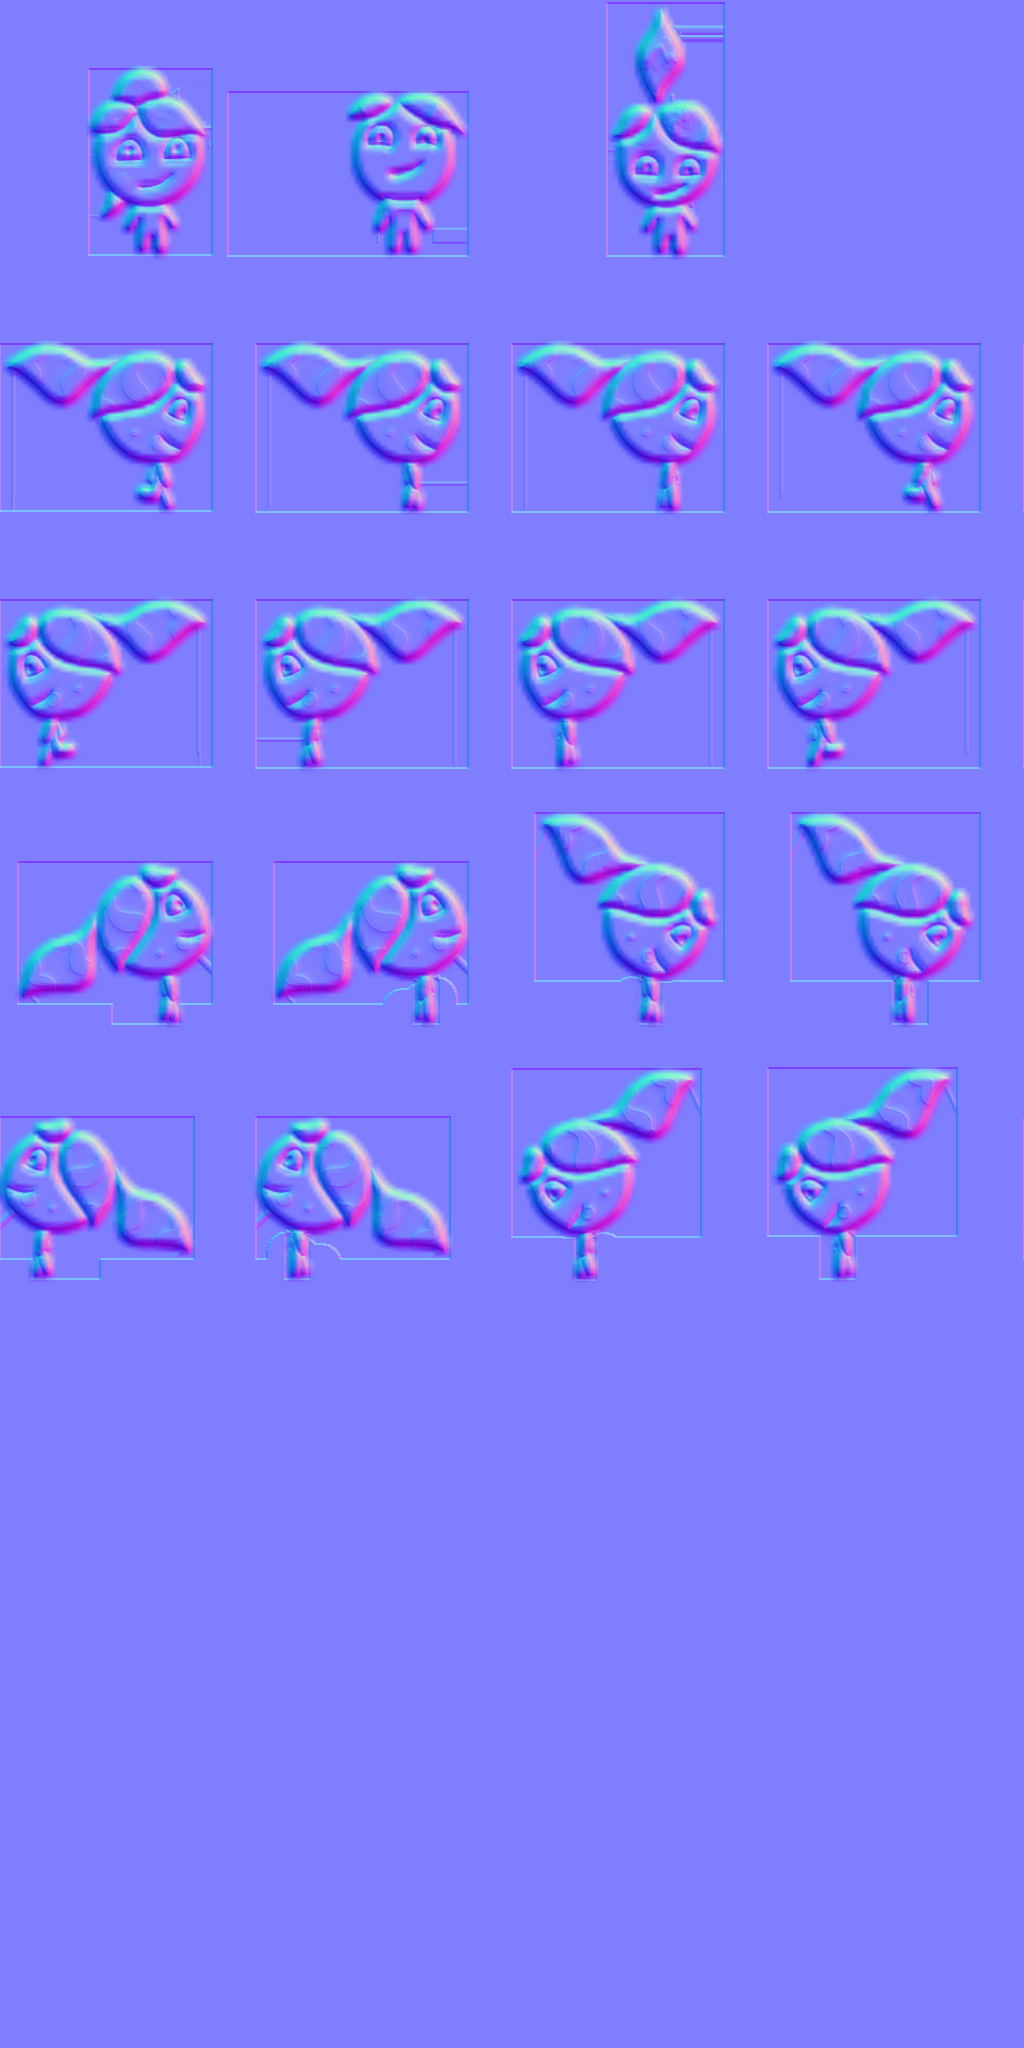
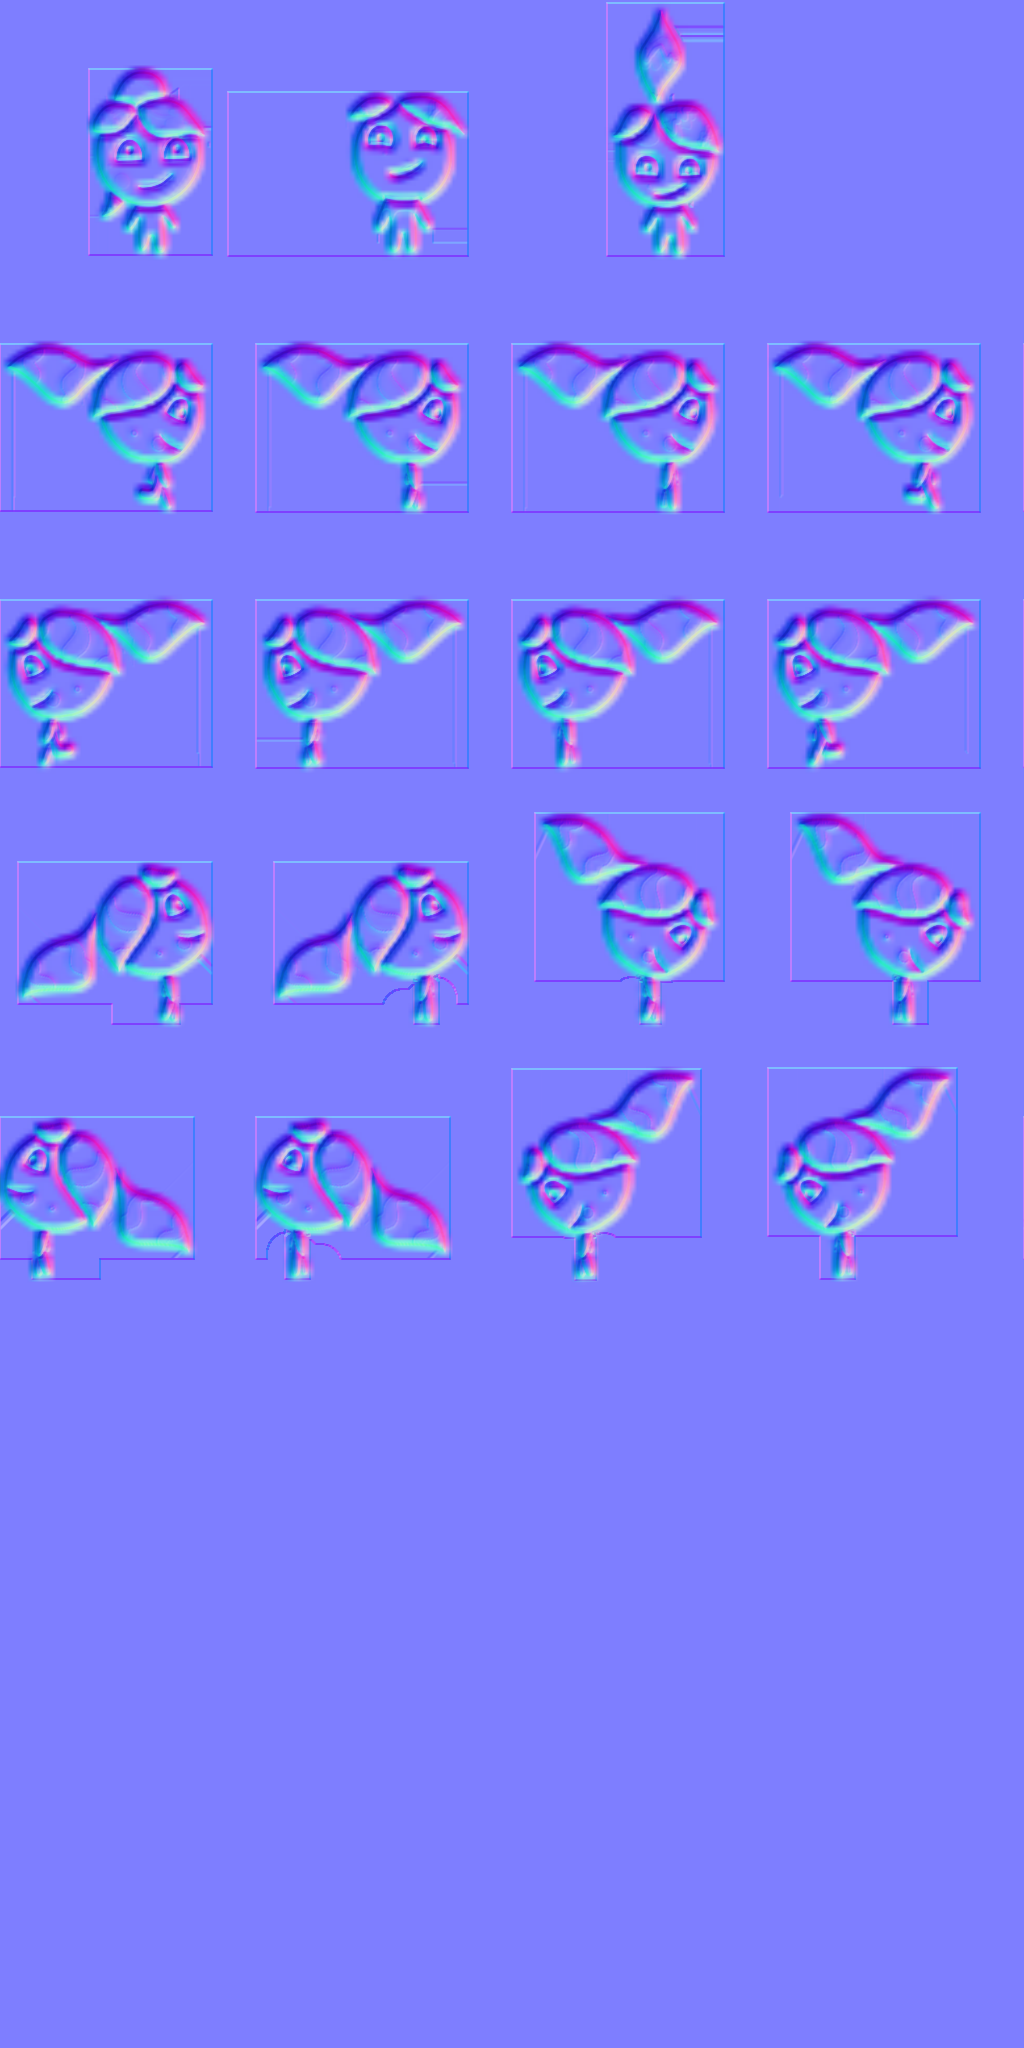
se deja una vista del 100% y se ajusta el juego con respecto al zoom. Se añaden las sombras de los personajes

diff --git a/public_html/src/Game/Game.js b/public_html/src/Game/Game.js
@@ -282,7 +282,7 @@ Game.prototype.initialize = function () {
     // Score
     this.mMsg = new FontRenderable("");
     this.mMsg.setColor([1, 1, 1, 1]);
-    this.mMsg.getXform().setPosition(-14, -17);
+    this.mMsg.getXform().setPosition(0, 44);
     this.mMsg.setTextHeight(2);
 
     // Menu Pause
@@ -346,7 +346,6 @@ Game.prototype.updateLevel1 = function () {
         let mWaterCharacter = this.mAllCharacters.getObjectAt(0);
         let mFireCharacter = this.mAllCharacters.getObjectAt(1);
 
-        this.camera(mWaterCharacter, mFireCharacter);
         this.auroraCharacter(mWaterCharacter, 1);
         this.timeParticles();
         this.auroraCharacter(mFireCharacter, 2);
@@ -434,66 +433,6 @@ Game.prototype.menuPause = function () {
     }
 };
 
-// Function that is responsible for moving the camera
-Game.prototype.camera = function (mWaterCharacter, mFireCharacter) {
-    let xf = mWaterCharacter.getXform();
-    let posText = this.mMsg.getXform().getPosition();
-    let status = this.mAllCameras[0].collideWCBound(xf, 1);
-
-    if (status !== BoundingBox.eboundCollideStatus.eInside) {
-        let p1 = this.mAllCameras[0].getWCCenter();
-
-        if ((status & BoundingBox.eboundCollideStatus.eCollideTop) !== 0) {
-            if (p1[1] === -32.900001525878906) {
-                p1[1] += 16;
-                posText[1] += 16;
-            }
-            else if (p1[1] === -16.900001525878906) {
-                p1[1] += 24;
-                posText[1] += 24;
-            }
-            else if (p1[1] === 7.099998474121094) {
-                p1[1] += 12;
-                posText[1] += 12;
-            }
-            else if (p1[1] === 19.099998474121094) {
-                p1[1] += 13.8000030518;
-                posText[1] += 13.8000030518;
-            }
-        } else if ((status & BoundingBox.eboundCollideStatus.eCollideBottom) !== 0) {
-            if (p1[1] === -16.900001525878906) {
-                p1[1] -= 16;
-                posText[1] -= 16
-            }
-            else if (p1[1] === 7.099998474121094) {
-                p1[1] -= 24;
-                posText[1] -= 24;
-            }
-            else if (p1[1] === 19.099998474121094) {
-                p1[1] -= 12;
-                posText[1] -= 12;
-            }
-            else if (p1[1] === 32.900001525878906) {
-                p1[1] -= 13.8000030518;
-                posText[1] -= 13.8000030518;
-            }
-        } else if ((status & BoundingBox.eboundCollideStatus.eCollideRight) !== 0) {
-            if (p1[0] === -18) {
-                p1[0] += 36;
-                posText[0] += 1.6;
-            }
-        } else if ((status & BoundingBox.eboundCollideStatus.eCollideLeft) !== 0) {
-            if (p1[0] === 18) {
-                p1[0] -= 36;
-                posText[0] -= 1.6;
-            }
-        }
-
-        this.mAllCameras[0].panTo(p1[0], p1[1]);
-        this.mMsg.getXform().setPosition(posText[0], posText[1]);
-    }
-};
-
 // Function that is responsible for activating the physics of the game
 Game.prototype.physicsSimulation = function () {
     gEngine.Physics.processSetSet(this.mAllCharacters, this.mAllWalls);
@@ -535,6 +474,7 @@ Game.prototype.colCharacterWave = function (mWaterCharacter, mFireCharacter) {
             gEngine.AudioClips.playACue(this.kSounds["death"]);
             gEngine.AudioClips.playACue(this.kSounds["finish"]);
             this.mGlobalLightSet.getLightAt(1).setLightTo(false);
+            this.mGlobalLightSet.getLightAt(2).setLightTo(false);
             character.setVisibility(false);
 
             this.mLoadSelection = new GameOverMenu();

diff --git a/public_html/src/Game/GameOverMenu.js b/public_html/src/Game/GameOverMenu.js
@@ -57,7 +57,7 @@ GameOverMenu.prototype.initialize = function () {
     this.mCamera = new Camera(
         vec2.fromValues(0, 0), // position of the camera
         100,                  //  width of camera
-        [0, 0, 900, 483],    //   viewport (orgX, orgY, width, height)
+        [0, 0, 900, 900],    //   viewport (orgX, orgY, width, height)
         0
     );
     this.mCamera.setBackgroundColor([0.9, 0.9, 0.9, 1]);
@@ -90,31 +90,29 @@ GameOverMenu.prototype.update = function () {
     let x = gEngine.Input.getMousePosX();
     let y = gEngine.Input.getMousePosY();
 
-    if(y >= 130 && y <= 228){
-        if(x >= 338 && x <= 444){
-            if(this.mMenuState === MainMenu.eMenuState.eMenu
-                || this.mMenuState === MainMenu.eMenuState.eMenuExit){
-                    this.mMenuState = MainMenu.eMenuState.eMenuPlay;
-            }
-    
-            if(gEngine.Input.isButtonClicked(gEngine.Input.mouseButton.Left)){
-                this.mLoadSelection = new Game();
-                gEngine.GameLoop.stop();
-            }
-        }else if(x >= 467 && x <= 573){
-            if(this.mMenuState === MainMenu.eMenuState.eMenu
-                || this.mMenuState === MainMenu.eMenuState.eMenuPlay){
-                    this.mMenuState = MainMenu.eMenuState.eMenuExit;
-            }
-
-            if(gEngine.Input.isButtonClicked(gEngine.Input.mouseButton.Left)){
-                this.mLoadSelection = new MainMenu();
-                gEngine.GameLoop.stop();
-            }
-        }else if(this.mMenuState === MainMenu.eMenuState.eMenuPlay
-            || this.mMenuState === MainMenu.eMenuState.eMenuExit){
-                this.mMenuState = MainMenu.eMenuState.eMenu;
+    if(x >= 277 && x <= 443 && y >= 282 && y <= 438){
+        if(this.mMenuState === GameOverMenu.eMenuState.eMenu
+            || this.mMenuState === GameOverMenu.eMenuState.eMenuExit){
+                this.mMenuState = GameOverMenu.eMenuState.eMenuPlay;
         }
+
+        if(gEngine.Input.isButtonClicked(gEngine.Input.mouseButton.Left)){
+            this.mLoadSelection = new Game();
+            gEngine.GameLoop.stop();
+        }
+    }else if(x >= 477 && x <= 642 && y >= 282 && y <= 438){
+        if(this.mMenuState === GameOverMenu.eMenuState.eMenu
+            || this.mMenuState === GameOverMenu.eMenuState.eMenuPlay){
+                this.mMenuState = GameOverMenu.eMenuState.eMenuExit;
+        }
+
+        if(gEngine.Input.isButtonClicked(gEngine.Input.mouseButton.Left)){
+            this.mLoadSelection = new MainMenu();
+            gEngine.GameLoop.stop();
+        }
+    }else if(this.mMenuState === GameOverMenu.eMenuState.eMenuPlay
+        || this.mMenuState === GameOverMenu.eMenuState.eMenuExit){
+            this.mMenuState = GameOverMenu.eMenuState.eMenu;
     }
 
     if(this.mMenuState !== this.mPreviousMenuState){

diff --git a/public_html/src/Game/WinMenu.js b/public_html/src/Game/WinMenu.js
@@ -57,7 +57,7 @@ WinMenu.prototype.initialize = function () {
     this.mCamera = new Camera(
         vec2.fromValues(0, 0), // position of the camera
         100,                  //  width of camera
-        [0, 0, 900, 483],    //   viewport (orgX, orgY, width, height)
+        [0, 0, 900, 900],    //   viewport (orgX, orgY, width, height)
         0
     );
     this.mCamera.setBackgroundColor([0.9, 0.9, 0.9, 1]);
@@ -90,31 +90,29 @@ WinMenu.prototype.update = function () {
     let x = gEngine.Input.getMousePosX();
     let y = gEngine.Input.getMousePosY();
 
-    if(y >= 130 && y <= 228){
-        if(x >= 338 && x <= 444){
-            if(this.mMenuState === MainMenu.eMenuState.eMenu
-                || this.mMenuState === MainMenu.eMenuState.eMenuExit){
-                    this.mMenuState = MainMenu.eMenuState.eMenuPlay;
-            }
-    
-            if(gEngine.Input.isButtonClicked(gEngine.Input.mouseButton.Left)){
-                this.mLoadSelection = new Game();
-                gEngine.GameLoop.stop();
-            }
-        }else if(x >= 467 && x <= 573){
-            if(this.mMenuState === MainMenu.eMenuState.eMenu
-                || this.mMenuState === MainMenu.eMenuState.eMenuPlay){
-                    this.mMenuState = MainMenu.eMenuState.eMenuExit;
-            }
-
-            if(gEngine.Input.isButtonClicked(gEngine.Input.mouseButton.Left)){
-                this.mLoadSelection = new MainMenu();
-                gEngine.GameLoop.stop();
-            }
-        }else if(this.mMenuState === MainMenu.eMenuState.eMenuPlay
-            || this.mMenuState === MainMenu.eMenuState.eMenuExit){
-                this.mMenuState = MainMenu.eMenuState.eMenu;
+    if(x >= 277 && x <= 443 && y >= 282 && y <= 438){
+        if(this.mMenuState === WinMenu.eMenuState.eMenu
+            || this.mMenuState === WinMenu.eMenuState.eMenuExit){
+                this.mMenuState = WinMenu.eMenuState.eMenuPlay;
         }
+
+        if(gEngine.Input.isButtonClicked(gEngine.Input.mouseButton.Left)){
+            this.mLoadSelection = new Game();
+            gEngine.GameLoop.stop();
+        }
+    }else if(x >= 477 && x <= 642 && y >= 282 && y <= 438){
+        if(this.mMenuState === WinMenu.eMenuState.eMenu
+            || this.mMenuState === WinMenu.eMenuState.eMenuPlay){
+                this.mMenuState = WinMenu.eMenuState.eMenuExit;
+        }
+
+        if(gEngine.Input.isButtonClicked(gEngine.Input.mouseButton.Left)){
+            this.mLoadSelection = new MainMenu();
+            gEngine.GameLoop.stop();
+        }
+    }else if(this.mMenuState === WinMenu.eMenuState.eMenuPlay
+        || this.mMenuState === WinMenu.eMenuState.eMenuExit){
+            this.mMenuState = WinMenu.eMenuState.eMenu;
     }
 
     if(this.mMenuState !== this.mPreviousMenuState){

diff --git a/public_html/src/Game/MainMenu.js b/public_html/src/Game/MainMenu.js
@@ -58,7 +58,7 @@ MainMenu.prototype.initialize = function () {
     this.mCamera = new Camera(
         vec2.fromValues(0, 0), // position of the camera
         100,                  //  width of camera
-        [0, 0, 900, 483],    //   viewport (orgX, orgY, width, height)
+        [0, 0, 900, 900],    //   viewport (orgX, orgY, width, height)
         0
     );
     this.mCamera.setBackgroundColor([0.9, 0.9, 0.9, 1]);
@@ -91,25 +91,28 @@ MainMenu.prototype.update = function () {
     let x = gEngine.Input.getMousePosX();
     let y = gEngine.Input.getMousePosY();
 
-    if(y >= 130 && y <= 228){
-        if(x >= 338 && x <= 444){
-            if(this.mMenuState === MainMenu.eMenuState.eMenu
-                || this.mMenuState === MainMenu.eMenuState.eMenuExit){
-                    this.mMenuState = MainMenu.eMenuState.eMenuPlay;
-            }
-    
-            if(gEngine.Input.isButtonClicked(gEngine.Input.mouseButton.Left)){
-                gEngine.GameLoop.stop();
-            }
-        }else if(x >= 467 && x <= 573){
-            if(this.mMenuState === MainMenu.eMenuState.eMenu
-                || this.mMenuState === MainMenu.eMenuState.eMenuPlay){
-                    this.mMenuState = MainMenu.eMenuState.eMenuExit;
-            }
-        }else if(this.mMenuState === MainMenu.eMenuState.eMenuPlay
+    if(x >= 277 && x <= 443 && y >= 282 && y <= 438){
+        if(this.mMenuState === MainMenu.eMenuState.eMenu
             || this.mMenuState === MainMenu.eMenuState.eMenuExit){
-                this.mMenuState = MainMenu.eMenuState.eMenu;
+                this.mMenuState = MainMenu.eMenuState.eMenuPlay;
         }
+
+        if(gEngine.Input.isButtonClicked(gEngine.Input.mouseButton.Left)){
+            this.mLoadSelection = new Game();
+            gEngine.GameLoop.stop();
+        }
+    }else if(x >= 477 && x <= 642 && y >= 282 && y <= 438){
+        if(this.mMenuState === MainMenu.eMenuState.eMenu
+            || this.mMenuState === MainMenu.eMenuState.eMenuPlay){
+                this.mMenuState = MainMenu.eMenuState.eMenuExit;
+        }
+
+        if(gEngine.Input.isButtonClicked(gEngine.Input.mouseButton.Left)){
+            //
+        }
+    }else if(this.mMenuState === MainMenu.eMenuState.eMenuPlay
+        || this.mMenuState === MainMenu.eMenuState.eMenuExit){
+            this.mMenuState = MainMenu.eMenuState.eMenu;
     }
 
     if(this.mMenuState !== this.mPreviousMenuState){

diff --git a/public_html/src/Game/Objects/Character.js b/public_html/src/Game/Objects/Character.js
@@ -28,11 +28,12 @@ function Character(x, y, texture, normal, lgtSet, player, kSounds) {
     }
     
     this.mCharacter.getXform().setPosition(x, y);
-    this.mCharacter.getXform().setZPos(2);
+    this.mCharacter.getXform().setZPos(1);
     this.mCharacter.getXform().setSize(7, 7);
     this.mCharacter.setSpriteSequence(2048, 0, 256, 256, 1, 0);
     this.mCharacter.setAnimationSpeed(0);
     this.mCharacter.addLight(lgtSet.getLightAt(0));
+    this.mCharacter.addLight(lgtSet.getLightAt(3));
 
     GameObject.call(this, this.mCharacter);
 

diff --git a/public_html/index.html b/public_html/index.html
@@ -111,10 +111,10 @@
     </head>
 
     <body onload="
-        let game = new Game();
+        let game = new MainMenu();
         gEngine.Core.initializeEngineCore('GLCanvas', game);
     ">
-        <canvas id="GLCanvas" width="900" height="483">
+        <canvas id="GLCanvas" width="900" height="900">
             <!-- GLCanvas is the area we will draw in: a 640x480 area. -->
             Your browser does not support the HTML5 canvas.
             <!-- this message will show only if WebGL clearing failed -->

diff --git a/public_html/src/Game/Objects/Diamond.js b/public_html/src/Game/Objects/Diamond.js
@@ -12,6 +12,8 @@ function Diamond(x, y, w, h, pc, texture, normal, lgtSet, type) {
     this.mDiamond.getXform().setSize(w, h);
     this.mDiamond.setElementPixelPositions(0, 256, 0, 256);
     this.mDiamond.addLight(lgtSet.getLightAt(0)); 
+    this.mDiamond.addLight(lgtSet.getLightAt(1));
+    this.mDiamond.addLight(lgtSet.getLightAt(2));
     this.mPlayerCollision = pc;
 
     GameObject.call(this, this.mDiamond); 

diff --git a/public_html/src/Game/Objects/Platform.js b/public_html/src/Game/Objects/Platform.js
@@ -29,6 +29,8 @@ function Platform(x, y, velocity, movementRange, texture, normal, lightSet) {
     }
 
     this.mPlatform.addLight(lightSet.getLightAt(0));
+    this.mPlatform.addLight(lightSet.getLightAt(1));
+    this.mPlatform.addLight(lightSet.getLightAt(2));
 
     GameObject.call(this, this.mPlatform);
     this.getXform().setSize(this.kPlatformWidth, this.kPlatformHeight);

diff --git a/public_html/src/Game/Objects/PushButton.js b/public_html/src/Game/Objects/PushButton.js
@@ -11,6 +11,8 @@ function PushButton(x, y, w, h, p, texture, normal, lgtSet) {
     this.mPushButton.getXform().setSize(w, h);
     this.mPushButton.setElementPixelPositions(0, 128, 0, 64);
     this.mPushButton.addLight(lgtSet.getLightAt(0));
+    this.mPushButton.addLight(lgtSet.getLightAt(1));
+    this.mPushButton.addLight(lgtSet.getLightAt(2));
     this.platform = p;
 
 

diff --git a/public_html/src/Game/Objects/Wall.js b/public_html/src/Game/Objects/Wall.js
@@ -13,6 +13,7 @@ function Wall(x, y, w, h, elmPixelPos, texture, normal, lgtSet) {
     this.mWall.setElementPixelPositions(elmPixelPos[0], elmPixelPos[1], elmPixelPos[2], elmPixelPos[3]);
     this.mWall.addLight(lgtSet.getLightAt(0));
     this.mWall.addLight(lgtSet.getLightAt(1));
+    this.mWall.addLight(lgtSet.getLightAt(2));
 
     GameObject.call(this, this.mWall);
 
